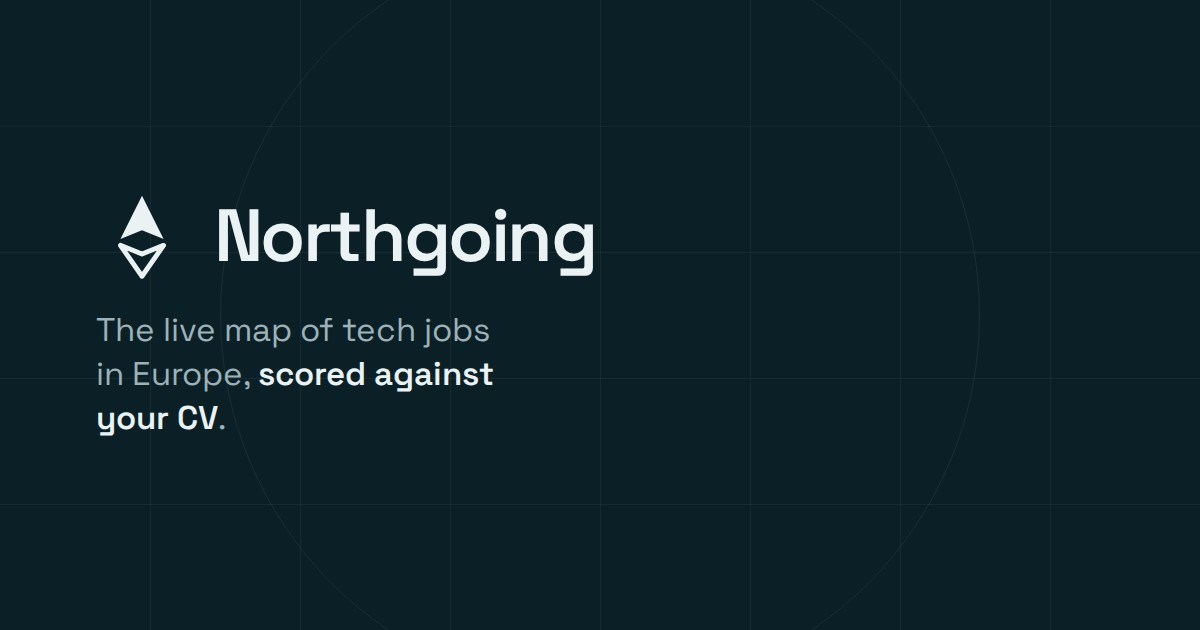
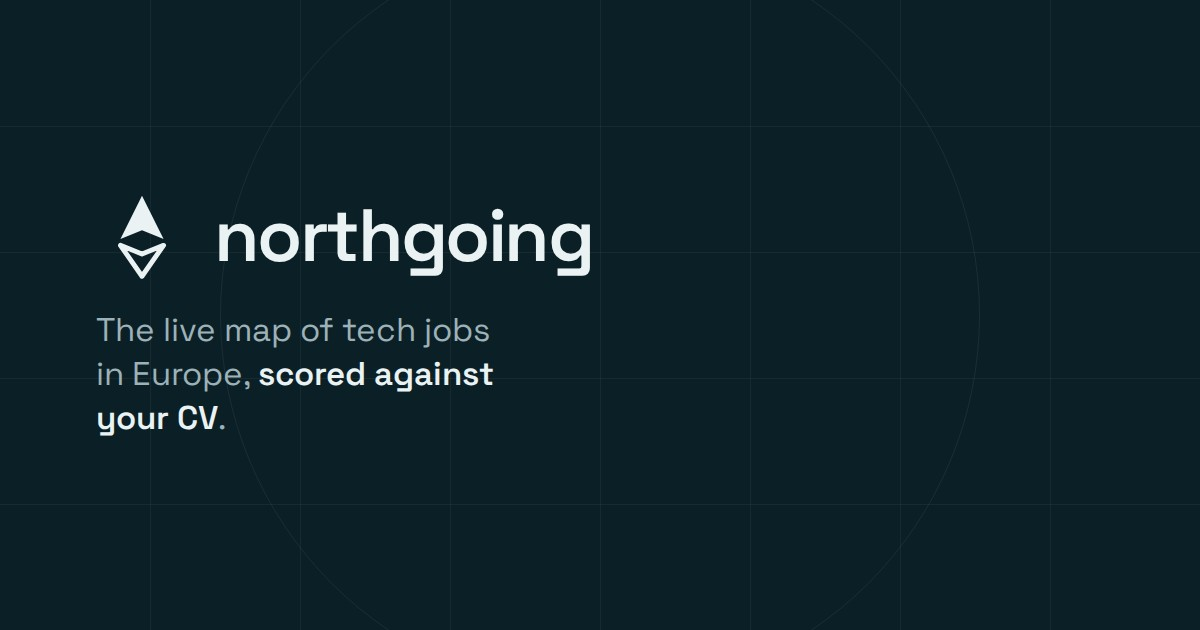
feat(brand): lowercase wordmark, capitalised name (#107)
Rober's call: the logo is set in lowercase. Implemented as a second constant
rather than .toLowerCase() at each site, because the two are different things
that drift in different directions.

BRAND_WORDMARK ('northgoing') is LETTERING and is used wherever the logo is
set: the map headbar, the paper page headers, the under-construction card, the
social card, the email masthead. BRAND_NAME ('Northgoing') is a proper noun and
stays in prose, page titles, legal copy and email bodies, where lowercase would
read as a typo and would break the moment the name starts a sentence.

The rule is written into brandName.ts and BRAND.md: pick by the ROLE the text
plays, never by the file you happen to be editing.

Social card regenerated from the same SVG source. The email masthead test now
asserts the constant instead of a literal, so it still proves the email does not
fall back to the prose form if the lettering changes again.

Claude-Session: https://claude.ai/code/session_01KA2HSwA2b8EMcH61nUL6cL

Changed region(s): [[0.185, 0.3317, 0.4933, 0.4524]]

diff --git a/src/lib/nightly.ts b/src/lib/nightly.ts
@@ -4,7 +4,7 @@
 // below is pure too, and carries the .js extension Node ESM requires). Pinned by
 // src/test/nightly.test.ts. Rule + code move together.
 import { companyKey, warmMarkerLabel } from "./connections.js";
-import { BRAND_NAME } from "./brandName.js";
+import { BRAND_WORDMARK } from "./brandName.js";
 
 /** How many top new matches to score + surface per user per night (spec §5). */
 export const NIGHTLY_TOP_N = 10;
@@ -295,7 +295,7 @@ export function buildEmailBody(
   const plural = matches.length === 1 ? "" : "s";
 
   const text = [
-    BRAND_NAME,
+    BRAND_WORDMARK,
     "",
     `You have ${matches.length} new role${plural} matched to you today.`,
     "",
@@ -338,7 +338,7 @@ export function buildEmailBody(
 
   const html = [
     `<div style="font-family:${FONT};max-width:560px;color:${INK}">`,
-    `<div style="font-size:14px;font-weight:700;letter-spacing:.01em;color:${INK}">${BRAND_NAME}</div>`,
+    `<div style="font-size:14px;font-weight:700;letter-spacing:.01em;color:${INK}">${BRAND_WORDMARK}</div>`,
     `<p style="margin:14px 0 4px;font-size:15px">You have <strong>${matches.length}</strong> new role${plural} matched to you today.</p>`,
     rows,
     ...(more > 0

diff --git a/src/lib/brand.tsx b/src/lib/brand.tsx
@@ -14,7 +14,7 @@
 //
 // public/favicon.svg carries the SAME two paths and is pinned to these
 // constants by src/test/brand-mark.test.ts. Edit one, edit both, in one commit.
-import { BRAND_NAME as PRODUCT_NAME } from "./brandName";
+import { BRAND_NAME as PRODUCT_NAME, BRAND_WORDMARK as PRODUCT_WORDMARK } from "./brandName";
 
 /** Shared coordinate space for every rendering of the mark. */
 export const MARK_VIEWBOX = "0 0 64 64";
@@ -35,6 +35,9 @@ export const MARK_SOUTH_STROKE = 3.4;
 /** The product name. The domain cutover (#106) swaps hosts, never this string. */
 // eslint-disable-next-line react-refresh/only-export-components -- re-export of one shared constant, not a component
 export const BRAND_NAME = PRODUCT_NAME;
+
+/** The name as DRAWN in the logo (lowercase). See brandName.ts for when to use which. */
+export const BRAND_WORDMARK = PRODUCT_WORDMARK;
 
 type MarkProps = {
   /** Rendered size in pixels. Square by construction. */
@@ -96,7 +99,7 @@ export function NorthgoingLockup({
           lineHeight: 1,
         }}
       >
-        {BRAND_NAME}
+        {BRAND_WORDMARK}
       </span>
     </span>
   );

diff --git a/src/test/nightly.test.ts b/src/test/nightly.test.ts
@@ -1,4 +1,5 @@
 import { describe, it, expect } from "vitest";
+import { BRAND_WORDMARK } from "@/lib/brandName";
 import {
   jobSeenMs,
   selectNewJobsSince,
@@ -242,8 +243,13 @@ describe("buildEmailBody (issue #72 slice 3)", () => {
 
   it("keeps the brand header and the see-them-all link", () => {
     const { text, html } = buildEmailBody(ranked(2), "https://northgoing.com/");
-    expect(text.startsWith("Northgoing")).toBe(true);
-    expect(html).toContain("Northgoing</div>");
+    // The masthead is the LOGO, so it carries the lowercase wordmark, not the
+    // proper noun. Asserting the constant rather than the literal keeps this
+    // honest if the lettering ever changes again, while still proving the email
+    // does not fall back to the prose form.
+    expect(text.startsWith(BRAND_WORDMARK)).toBe(true);
+    expect(html).toContain(`${BRAND_WORDMARK}</div>`);
+    expect(BRAND_WORDMARK).toBe("northgoing");
     expect(text).toContain("See them all: https://northgoing.com/");
     expect(html).toContain('href="https://northgoing.com/"');
   });

diff --git a/src/lib/brandName.ts b/src/lib/brandName.ts
@@ -12,3 +12,18 @@
 
 /** The product name. The domain cutover (#106) swaps hosts, never this string. */
 export const BRAND_NAME = "Northgoing";
+
+/**
+ * The wordmark: the name AS DRAWN in the logo, which is lowercase (Rober,
+ * 2026-08-19). This is deliberately a second constant rather than a call to
+ * .toLowerCase() at each site, because the two are different things and drift
+ * in different directions. BRAND_NAME is a proper noun and belongs in prose,
+ * titles, legal copy and email bodies, where lowercase would read as a typo and
+ * would break the moment the name starts a sentence. BRAND_WORDMARK is
+ * lettering and belongs anywhere the logo is set: the map headbar, the paper
+ * page headers, the social card, the email header.
+ *
+ * Use the one that matches the ROLE the text is playing, never the one that
+ * matches the surface you happen to be editing.
+ */
+export const BRAND_WORDMARK = "northgoing";

diff --git a/src/components/app/AppShell.tsx b/src/components/app/AppShell.tsx
@@ -10,7 +10,7 @@ import { NavLink, useNavigate } from "react-router-dom";
 import { cn } from "@/lib/utils";
 import ThemeToggle from "@/components/ThemeToggle";
 import AccountMenu from "@/components/app/AccountMenu";
-import { BRAND_NAME } from "@/lib/brand";
+import { BRAND_WORDMARK } from "@/lib/brand";
 
 const NAV = [
   { to: "/today", label: "Today" },
@@ -68,7 +68,7 @@ export default function AppShell({
       >
         <div className="mx-auto flex h-14 max-w-3xl items-center gap-1 px-4 sm:px-6">
           <NavLink to="/" className="font-display text-body font-semibold tracking-tight">
-            {BRAND_NAME}
+            {BRAND_WORDMARK}
           </NavLink>
           <span className="mx-2 h-4 w-px bg-border" aria-hidden="true" />
           <nav className="flex items-center gap-1" aria-label="Product sections">

diff --git a/src/components/app/LegalLayout.tsx b/src/components/app/LegalLayout.tsx
@@ -3,7 +3,7 @@
 // em-dashes in the copy the pages pass in.
 import { type ReactNode } from "react";
 import { Link } from "react-router-dom";
-import { BRAND_NAME } from "@/lib/brand";
+import { BRAND_WORDMARK } from "@/lib/brand";
 
 export default function LegalLayout({
   title,
@@ -19,7 +19,7 @@ export default function LegalLayout({
       <header className="border-b border-border">
         <div className="mx-auto flex h-14 max-w-2xl items-center gap-3 px-4 sm:px-6">
           <Link to="/" className="font-display text-sm font-semibold tracking-tight">
-            {BRAND_NAME}
+            {BRAND_WORDMARK}
           </Link>
           <span className="mx-1 h-4 w-px bg-border" aria-hidden="true" />
           <Link to="/" className="text-sm text-muted-foreground hover:text-foreground">

diff --git a/src/pages/UnderConstruction.tsx b/src/pages/UnderConstruction.tsx
@@ -1,5 +1,5 @@
 import { Link } from "react-router-dom";
-import { BRAND_NAME } from "@/lib/brand";
+import { BRAND_NAME, BRAND_WORDMARK } from "@/lib/brand";
 
 // Coming-soon placeholder (Rober 7-06). The interactive /roles map is the only live
 // surface of Northgoing for now; every onward flow (sign-in, CV upload, profile,
@@ -11,7 +11,7 @@ export default function UnderConstruction() {
       <div className="uc-blob uc-blob-a" aria-hidden="true" />
       <div className="uc-blob uc-blob-b" aria-hidden="true" />
       <div className="uc-card">
-        <span className="uc-brand">{BRAND_NAME}</span>
+        <span className="uc-brand">{BRAND_WORDMARK}</span>
         <div className="uc-emoji" aria-hidden="true">🚧</div>
         <h1>Under construction</h1>
         <p>

diff --git a/src/components/roles/HeadBar.tsx b/src/components/roles/HeadBar.tsx
@@ -5,7 +5,7 @@ import FilterChip, { type FilterOption } from "./FilterChip";
 import { FACET_SCROLL_STEP, overflowSides } from "@/lib/facetRow";
 import ThemeToggle from "@/components/ThemeToggle";
 import AccountMenu from "@/components/app/AccountMenu";
-import { BRAND_NAME } from "@/lib/brand";
+import { BRAND_WORDMARK } from "@/lib/brand";
 
 export type HeadBarProps = {
   scored: boolean;
@@ -213,7 +213,7 @@ export default function HeadBar({ scored, signedIn, filters, onFilters, roleOpti
 
   return (
     <header className="nav glass liquid">
-      <Link className="brand" to="/" onClick={onBrand}>{BRAND_NAME}</Link>
+      <Link className="brand" to="/" onClick={onBrand}>{BRAND_WORDMARK}</Link>
       <span className="sep" />
 
       <div className="cmd">

diff --git a/BRAND.md b/BRAND.md
@@ -21,8 +21,13 @@ reading, that one direction is answered and the other is still open.
   it is ink on the light stage and pale on the dark map with no theme branching. Never
   give it a color: the score palette below already means fit, and a colored mark would
   make the accent say two different things.
-- **Wordmark:** Space Grotesk 600, letter-spacing `-0.03em`, set beside the mark at
-  roughly 0.86 of the mark's height.
+- **Wordmark:** lowercase `northgoing`, Space Grotesk 600, letter-spacing `-0.03em`, set
+  beside the mark at roughly 0.86 of the mark's height. The lowercase is the LETTERING,
+  not the name: `BRAND_WORDMARK` is what the logo draws (map headbar, page headers, social
+  card, email masthead), and `BRAND_NAME` stays `Northgoing` everywhere the name is spoken
+  in prose, titles, legal copy and email bodies. Both live in `src/lib/brandName.ts`.
+  Pick by the ROLE the text plays, never by the file you happen to be editing: lowercase
+  in a sentence reads as a typo and breaks the moment the name starts one.
 - **Grounds:** tab icons are the ink mark on transparency. App icons and the social card
   put the pale mark on the ink ground, because iOS, Android, and Open Graph readers all
   composite transparency onto a ground you do not control.
